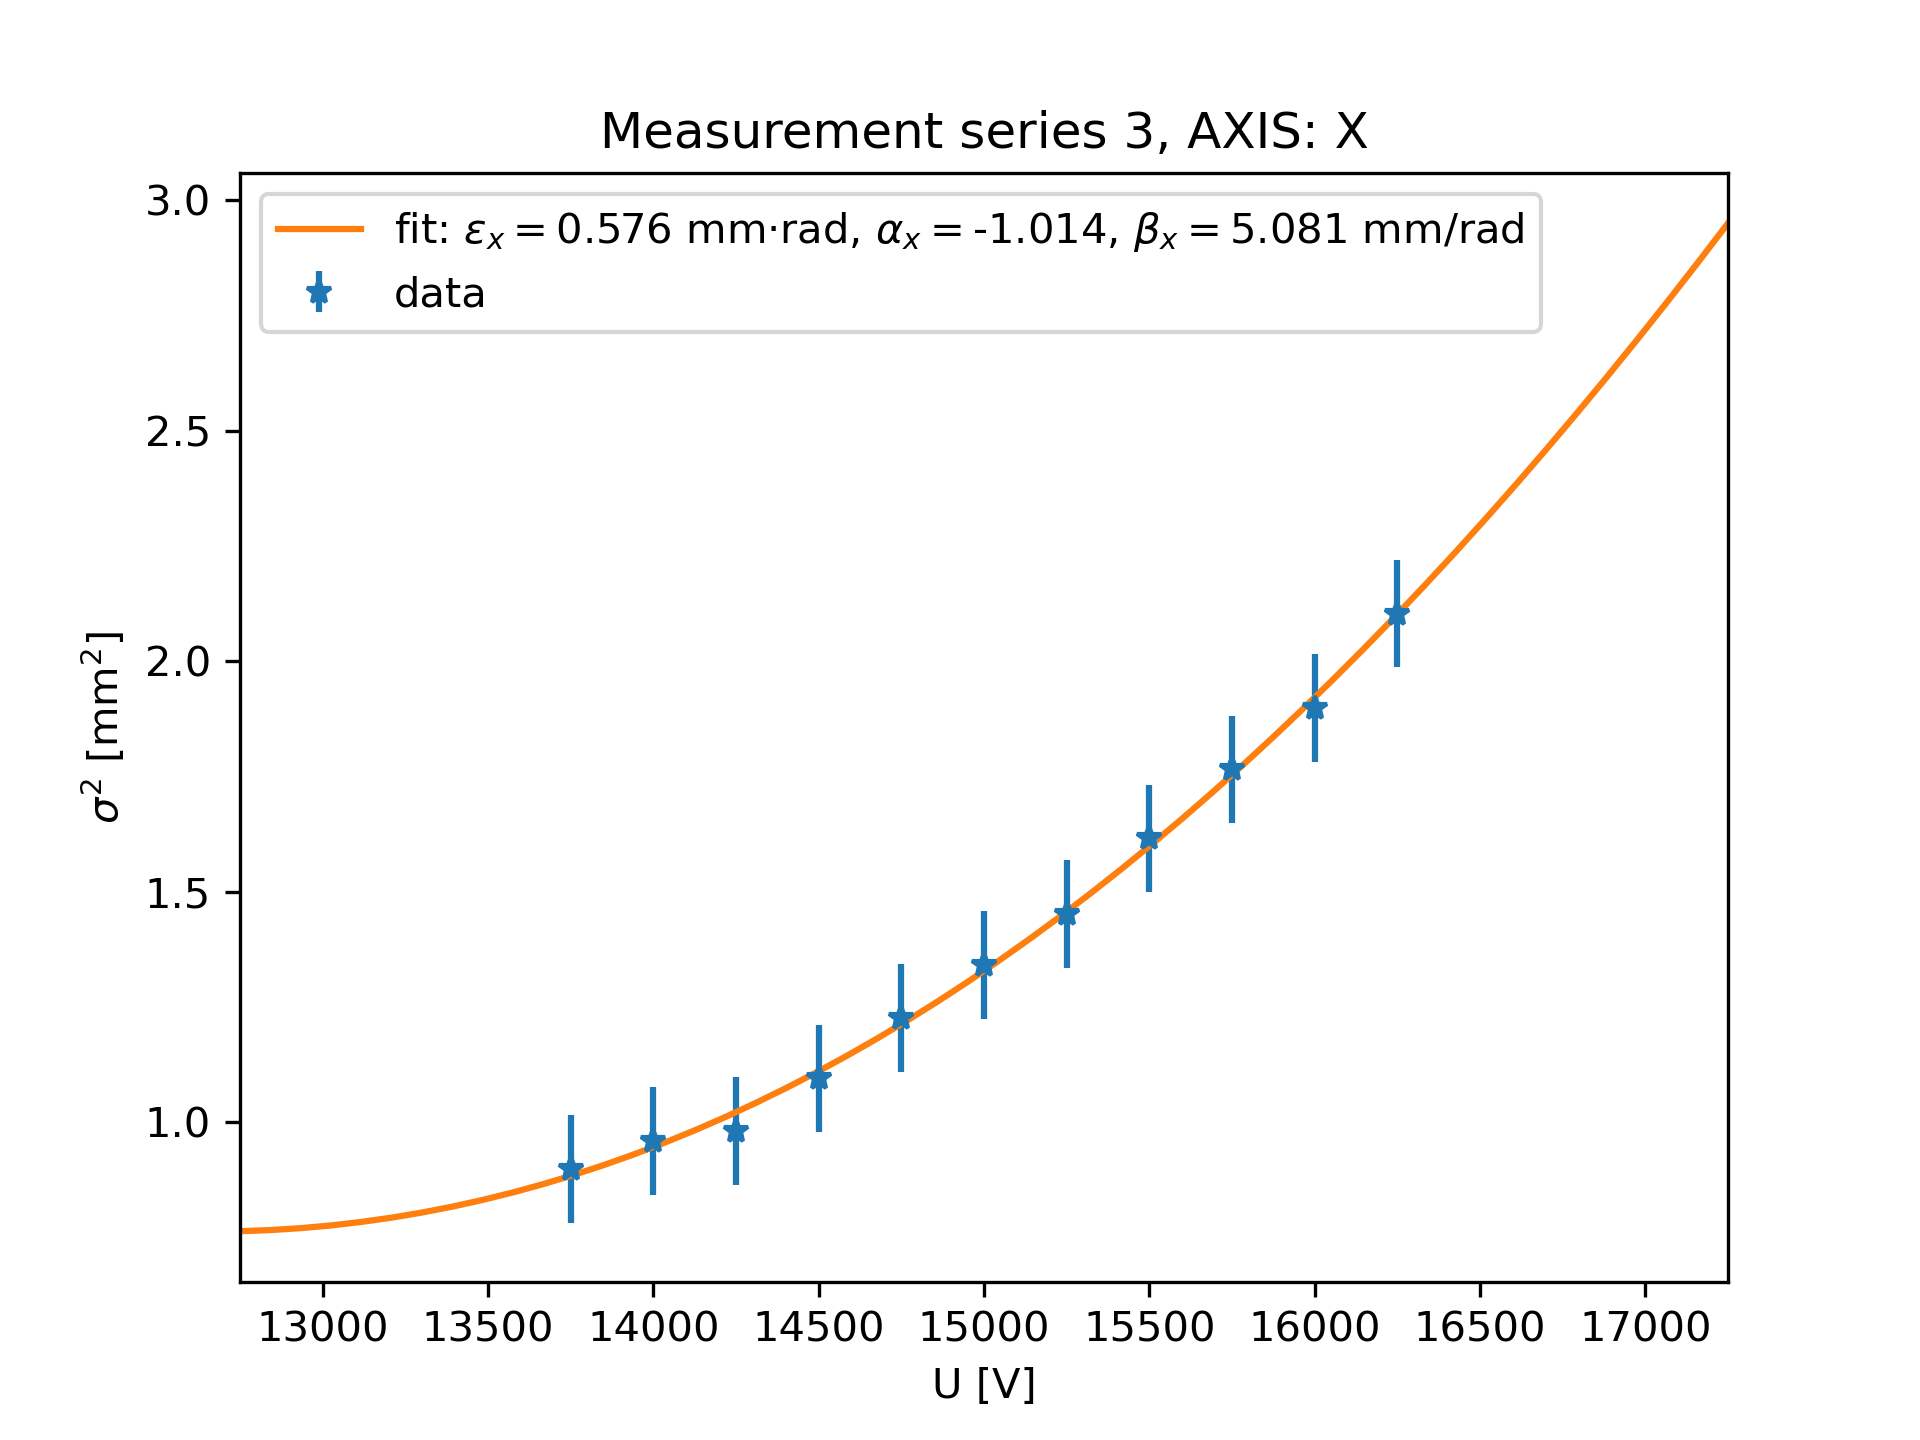
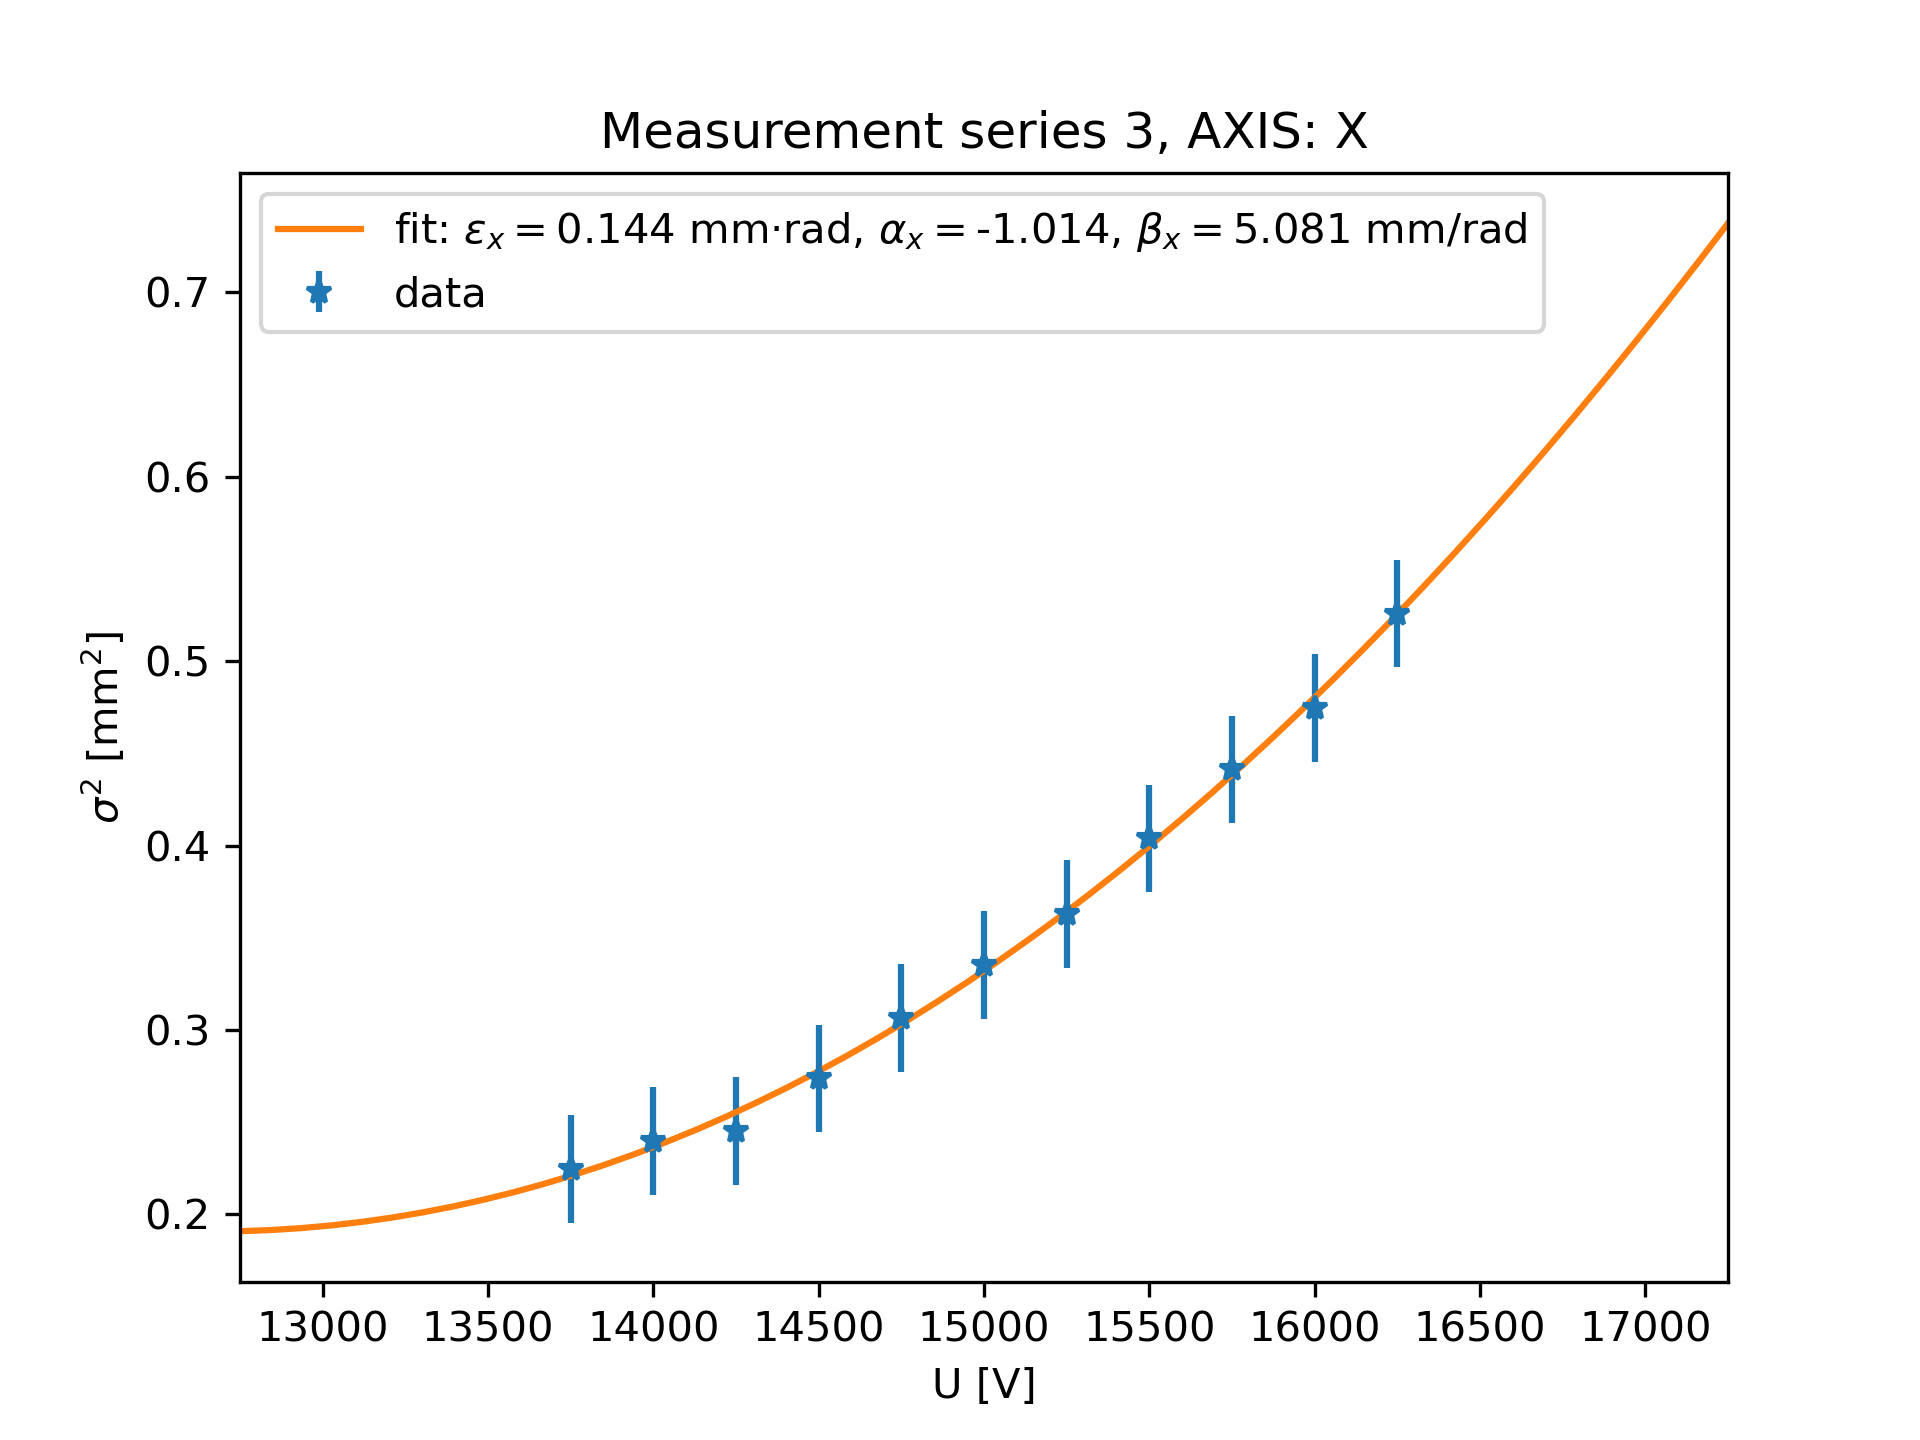
Update plots

diff --git a/wirescanner_analysis/wirescanner_solver.py b/wirescanner_analysis/wirescanner_solver.py
@@ -203,7 +203,7 @@ for MEASUREMENT_SERIES in ["ERROR_ESTIMATION", 1, 2, 3]:
             ax1.legend()
 
             # Calculate peak width (in length)
-            peak_width_in_length = FIDUCIAL_CALIBRATION * peak_width_in_time / time_between_fiducials
+            peak_width_in_length = FIDUCIAL_CALIBRATION * peak_width_in_time / (2*time_between_fiducials) # multiply by 2 to get calibration correct
             peak_widths.append(peak_width_in_length)
 
             plt.tight_layout()
